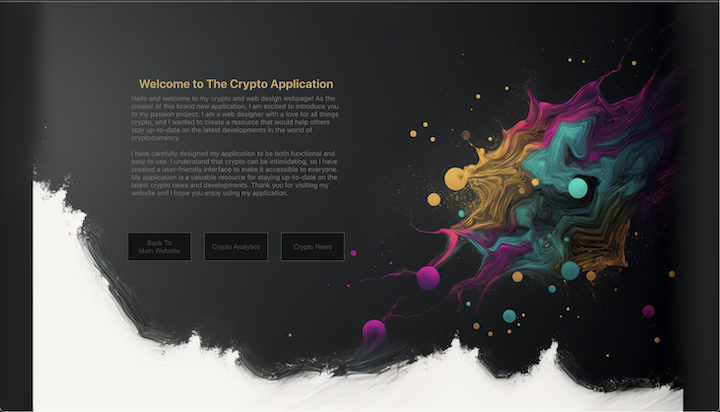
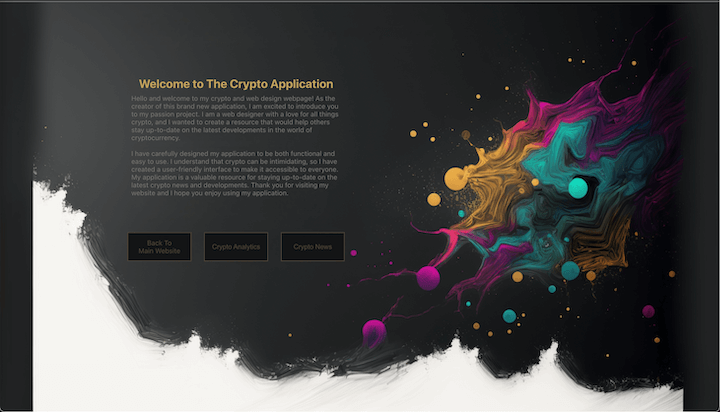
refomated images for easier loading and created realistic self writing text in the projects section

diff --git a/src/components/Projects.js b/src/components/Projects.js
@@ -97,11 +97,14 @@ export const Projects = () => {
     const [allClicked, setAllClicked] = useState("not-all-clicked project-two");
     const [isClicked, setIsClicked] = useState(false);
     const [fixing, setfixing] = useState(false);
+    const [fixingP, setFixingP] = useState('');
+    const [differential, setDifferential] = useState(Math.floor(Math.random() * (200 - 80 + 1)) + 80)
     const [elementHovered, setElementHovered] = useState(false);
     const [tabChosenGames, setTabChosenGames] = useState(false);
     const [tabChosenDynamic, setTabChosenDynamic] = useState(false);
     const [tabChosenStatic, setTabChosenStatic] = useState(false);
-
+    // const [currentProjectsParagraph, setCurrentProjectsParagraph] = useState('')
+    const projectsParagraph = 'I have completed numerous projects with durations ranging from a few hours to several weeks. These projects have included a wide range of challenges and have allowed me to hone my skills in full-stack development, including back-end technologies such as Node.js, Express, and SQL. My portfolio includes a variety of project types, including interactive mini-games built with platforms such as CANVAS and PyGame, dynamic websites featuring API integration and full CRUD functionality, and a range of static websites.'
 
 
     const handleScrollOver = () => {
@@ -390,16 +393,60 @@ export const Projects = () => {
         ));
     }, [projectType]);
 
+    const paragrpahId = useRef(null);
+    const currentProjectPSlice = useRef(1);
+    const currentProjectsParagraph = useRef(1);
 
 
-    // console.log(scrollingId.current);
+    useEffect(() => {
+        function randomNumber() {
+            const rand = Math.random();
+            if (rand <= 0.85) {
+              return Math.floor(Math.random() * (90 - 70 + 1)) + 70;
+            } else {
+              return Math.floor(Math.random() * (200 - 125 + 1)) + 180;
+            }
+          }
+        function writeParagraph() {
+            // console.log('Running')
+            clearInterval(paragrpahId.current);
+            paragrpahId.current = setInterval(writeParagraph, differential);
+
+            if (currentProjectsParagraph.current.length >= projectsParagraph.length) {
+                clearInterval(paragrpahId.current);
+            }
+            setFixingP(projectsParagraph.slice(0, currentProjectPSlice.current))
+            currentProjectsParagraph.current = projectsParagraph.slice(0, currentProjectPSlice.current)
+            currentProjectPSlice.current = currentProjectPSlice.current + 1
+            if (projectsParagraph[currentProjectPSlice.current - 2] === ',' || projectsParagraph[currentProjectPSlice.current - 2] === '.') {
+                setDifferential(650)
+            }  else {
+            setDifferential(randomNumber)
+            }
+        }
+
+        paragrpahId.current = setInterval(writeParagraph, differential);
+
+        return () => {
+            clearInterval(paragrpahId.current);
+        };
+    }, [differential]);
+
+    // useEffect(() => {
+    //     if (currentProjectsParagraph.length > projectsParagraph.lengh) {
+    //         return clearInterval(paragrpahId.current);
+    //     }
+    //     console.log(fixingP)
+    // }, [fixingP]);
+
+
     return (
         <section id="projects">
             <div className="dimmer2">
                 <section className="project-one">
                     <h1>Projects</h1>
                     <p>
-                    I have completed numerous projects with durations ranging from a few hours to several weeks. These projects have included a wide range of challenges and have allowed me to hone my skills in full-stack development, including back-end technologies such as Node.js, Express, and SQL. My portfolio includes a variety of project types, including interactive mini-games built with platforms such as CANVAS and PyGame, dynamic websites featuring API integration and full CRUD functionality, and a range of static websites.
+                        {fixingP}
                     </p>
                 </section>
                 <section className={allClicked}>

diff --git a/src/components/Banner.js b/src/components/Banner.js
@@ -23,7 +23,7 @@ export default function Banner() {
         axiosRetry(axios, {
             retries: 10,
             retryDelay: (retryCount) => {
-                return retryCount * 2000;
+                return retryCount * 1000;
             }
         }); // retry the request up to 10 times, with a 1 second delay between each retry
 
@@ -80,7 +80,7 @@ export default function Banner() {
         // eslint-disable-next-line react-hooks/exhaustive-deps
     }, [text])
 
-    const scrollingId = useRef(false);
+    const scrollingBannerId = useRef(false);
 
 
     useEffect(() => {
@@ -475,19 +475,19 @@ export default function Banner() {
 
         // console.log(innerQuotesArray[1])
         function tetris() {
-            clearInterval(scrollingId.current);
+            clearInterval(scrollingBannerId.current);
 
-            if (scrollingId.current) {
-                clearInterval(scrollingId.current);
+            if (scrollingBannerId.current) {
+                clearInterval(scrollingBannerId.current);
             }
             var currentQuote = 0
             var acceleration = 1
 
             const currentQuoteArray = [1, 5, 4, 3, 2, 0]
-            if (scrollingId.current) { clearInterval(scrollingId.current); }
-            scrollingId.current = setInterval(() => {
+            if (scrollingBannerId.current) { clearInterval(scrollingBannerId.current); }
+            scrollingBannerId.current = setInterval(() => {
                 try {
-                    console.log('Running')
+                    // console.log('Running Banner')
                     const currentTransform = innerQuotesArray[currentQuoteArray[currentQuote]].style.transform;
                     // console.log(currentTransform)
                     const currentTranslateY = parseInt(
@@ -514,11 +514,11 @@ export default function Banner() {
                         innerQuotesArray[5].classList.add("banner_right_left_bottom_bottom_animation");
                         quotesWrapper.classList.add("glow_animation");
                         paragraphWrapper.classList.add("glow_animation");
-                        clearInterval(scrollingId.current);
+                        clearInterval(scrollingBannerId.current);
                     }
                 } catch (error) {
                     console.error(error)
-                    if (scrollingId.current) { clearInterval(scrollingId.current); }
+                    if (scrollingBannerId.current) { clearInterval(scrollingBannerId.current); }
                 }
 
             }, 10);
@@ -536,7 +536,7 @@ export default function Banner() {
 
     }, [styling])
 
-    
+
 
     return (
 

diff --git a/src/App.css b/src/App.css
@@ -326,7 +326,8 @@ nav.navbar .navbar-toggler[aria-expanded="true"] .navbar-toggler-icon {
   padding: 8px 10px;
   background: rgba(148, 121, 102, 0.4);
   border: 0.05rem solid white;
-  box-shadow: 0 0 3px rgba(179, 138, 116, 1), 0 0 6px rgba(179, 138, 116, 1), 0 0 19px rgba(179, 138, 116, 1), 0 0 64px rgba(179, 138, 116, 1);
+  box-shadow: 0 0 3px rgba(179, 138, 116, 1), 0 0 6px rgba(179, 138, 116, 1),
+    0 0 19px rgba(179, 138, 116, 1), 0 0 64px rgba(179, 138, 116, 1);
   /* backdrop-filter: invert(80%) brightness(80%); */
 }
 .banner-left-top h1 {
@@ -1466,3 +1467,16 @@ nav.navbar .navbar-toggler[aria-expanded="true"] .navbar-toggler-icon {
 .red {
   color: rgb(130, 31, 31) !important;
 }
+.loading-outer{
+  height: 100vh;
+  width: 100vw;
+  background-color: rgb(0, 0, 0);
+  display: flex;
+  justify-content: center;
+  align-items: center;
+}
+.loading {
+  height: 50%;
+  width: 50%;
+}
+

diff --git a/src/App.js b/src/App.js
@@ -24,16 +24,16 @@ function App() {
   return (
     <div className="App">
       <NavBar />
-      <Suspense fallback={<div>Loading...</div>}>
+      <Suspense fallback={<div className='loading'></div>}>
         <Banner />
       </Suspense>
-      <Suspense fallback={<div>Loading...</div>}>
+      <Suspense fallback={<div className='loading'></div>}>
         <Skills />
       </Suspense>
-      <Suspense fallback={<div>Loading...</div>}>
+      <Suspense fallback={<div className='loading'></div>}>
         <Projects />
       </Suspense>
-      <Suspense fallback={<div>Loading...</div>}>
+      <Suspense fallback={<div className='loading'></div>}>
         <Contact />
       </Suspense>
       <Analytics />

diff --git a/src/index.js b/src/index.js
@@ -1,12 +1,20 @@
-import React from 'react';
+import React, { Suspense, lazy } from 'react';
 import ReactDOM from 'react-dom/client';
 import './index.css';
-import App from './App';
+// import App from './App';
+const App = lazy(() => import('./App'));
 
 const root = ReactDOM.createRoot(document.getElementById('root'));
 root.render(
   // <React.StrictMode>
-  <App />
+  <Suspense fallback={
+    <div className='loading-outer'>
+      <div className='loading'>LOADING ....
+      </div>
+    </div>
+  }>
+    <App />
+  </Suspense>
   // </React.StrictMode>
 );
 

diff --git a/src/components/Skills.js b/src/components/Skills.js
@@ -86,7 +86,7 @@ export const Skills = () => {
                     }
                 }
             });
-        }, { threshold: 0.05 }); // Set the threshold to 0.05 (5% of the element's area must be visible in the viewport)
+        }, { threshold: 0.02 }); // Set the threshold to 0.05 (5% of the element's area must be visible in the viewport)
         // Start observing the div
         observer.observe(currentDiv);
         // Return a cleanup function to remove the right-top class and disconnect the observer when the component unmounts

diff --git a/public/index.html b/public/index.html
@@ -2,6 +2,7 @@
 <html lang="en">
   <head>
     <meta charset="utf-8" />
+    <link rel="preload" as="image" href="./assets/img/skills-backgroundv8" />
     <link rel="icon" href="/PUBLIC_URL/favicon.png" />
     <meta name="viewport" content="width=device-width, initial-scale=1.0" />
     <meta name="theme-color" content="#000000" />
